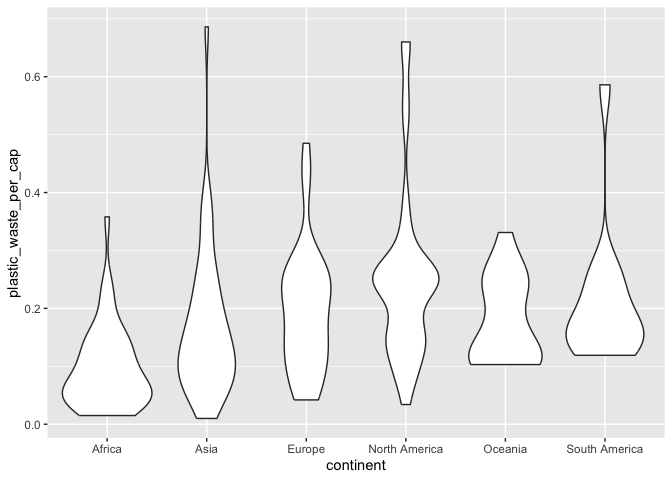
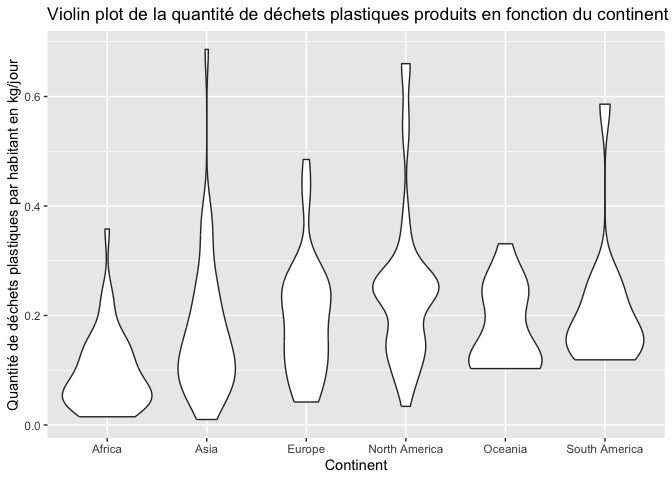
c5

diff --git a/lab-02.md b/lab-02.md
@@ -91,7 +91,7 @@ Boxplot:
 ``` r
 ggplot(plastic_waste, aes(x = continent, y = plastic_waste_per_cap)) +
   geom_boxplot() + 
-  labs(title = "Quantité de déchets plastiques produits en fonction du continent", x = "Continent", y = "Quantité de déchets plastiques par habitant en kg/jour")
+  labs(title = "Boxplot de la quantité de déchets plastiques produits en fonction du continent", x = "Continent", y = "Quantité de déchets plastiques par habitant en kg/jour")
 ```
 
 ![](lab-02_files/figure-gfm/plastic-waste-boxplot-1.png)<!-- -->
@@ -100,7 +100,8 @@ Violin plot:
 
 ``` r
 ggplot(plastic_waste, aes(x = continent, y = plastic_waste_per_cap)) +
-  geom_violin()
+  geom_violin() +
+  labs(title = "Violin plot de la quantité de déchets plastiques produits en fonction du continent", x = "Continent", y = "Quantité de déchets plastiques par habitant en kg/jour")
 ```
 
 ![](lab-02_files/figure-gfm/plastic-waste-violin-1.png)<!-- -->
@@ -164,5 +165,23 @@ paires de variables ?
 Recréez la visualisation:
 
 ``` r
-# insert code here
+plastic_waste_coastal <- plastic_waste %>% 
+  mutate(coastal_pop_prop = coastal_pop / total_pop) %>%
+  filter(plastic_waste_per_cap < 3)
+
+ggplot(plastic_waste_coastal, aes(x = coastal_pop_prop, y = plastic_waste_per_cap, colour = continent)) +
+  geom_point() +
+  geom_smooth(aes(x = coastal_pop_prop, y = plastic_waste_per_cap),
+              method = "loess", se = TRUE, color = "black") +
+  labs (title = "Quantité de déchets plastiques vs Proportion de la population côtière", x = "Proportion de la population côtière (Coastal / total population)", y = "Nombre de déchets plastiques par habitant", colour = "Continent") 
 ```
+
+    ## `geom_smooth()` using formula = 'y ~ x'
+
+    ## Warning: Removed 10 rows containing non-finite outside the scale range
+    ## (`stat_smooth()`).
+
+    ## Warning: Removed 10 rows containing missing values or values outside the scale range
+    ## (`geom_point()`).
+
+![](lab-02_files/figure-gfm/recreate-viz-1.png)<!-- -->
